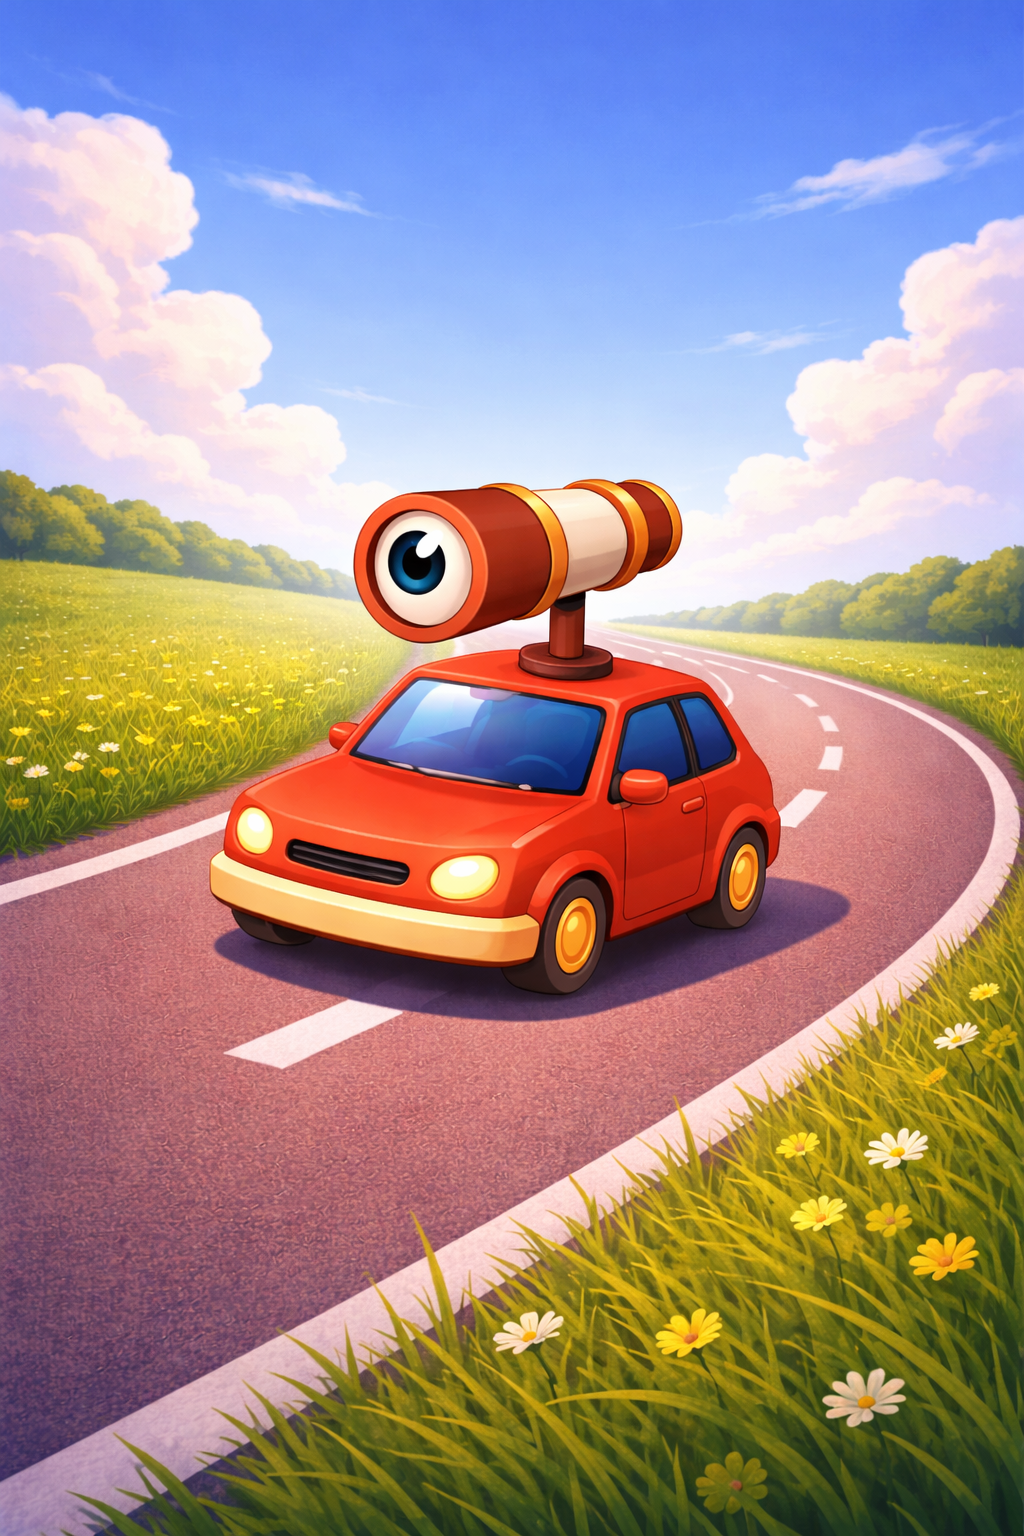
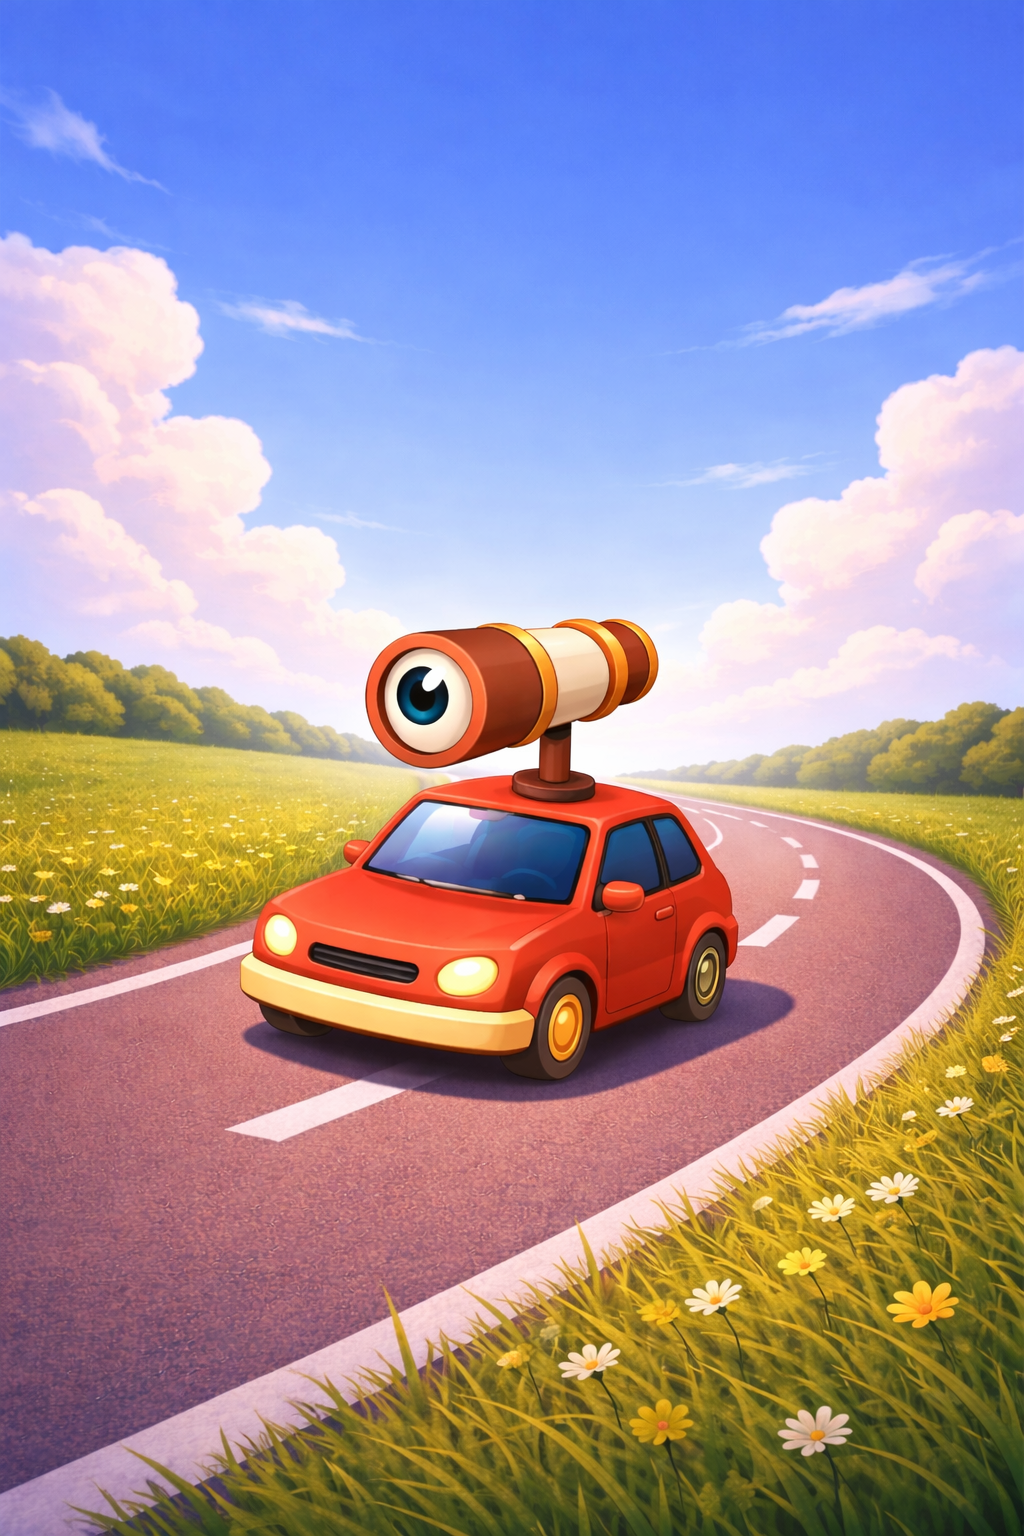
home page bijgewerkt

diff --git a/App.js b/App.js
@@ -123,11 +123,11 @@ const styles = StyleSheet.create({
     height: H * 0.42,
     alignItems: 'center',
     justifyContent: 'flex-start',
-    paddingTop: 52,
+    paddingTop: 24,
   },
   logo: {
-    width: W * 0.95,
-    height: H * 0.33,
+    width: W * 1.2,
+    height: H * 0.42,
   },
   knoppen: {
     position: 'absolute',
